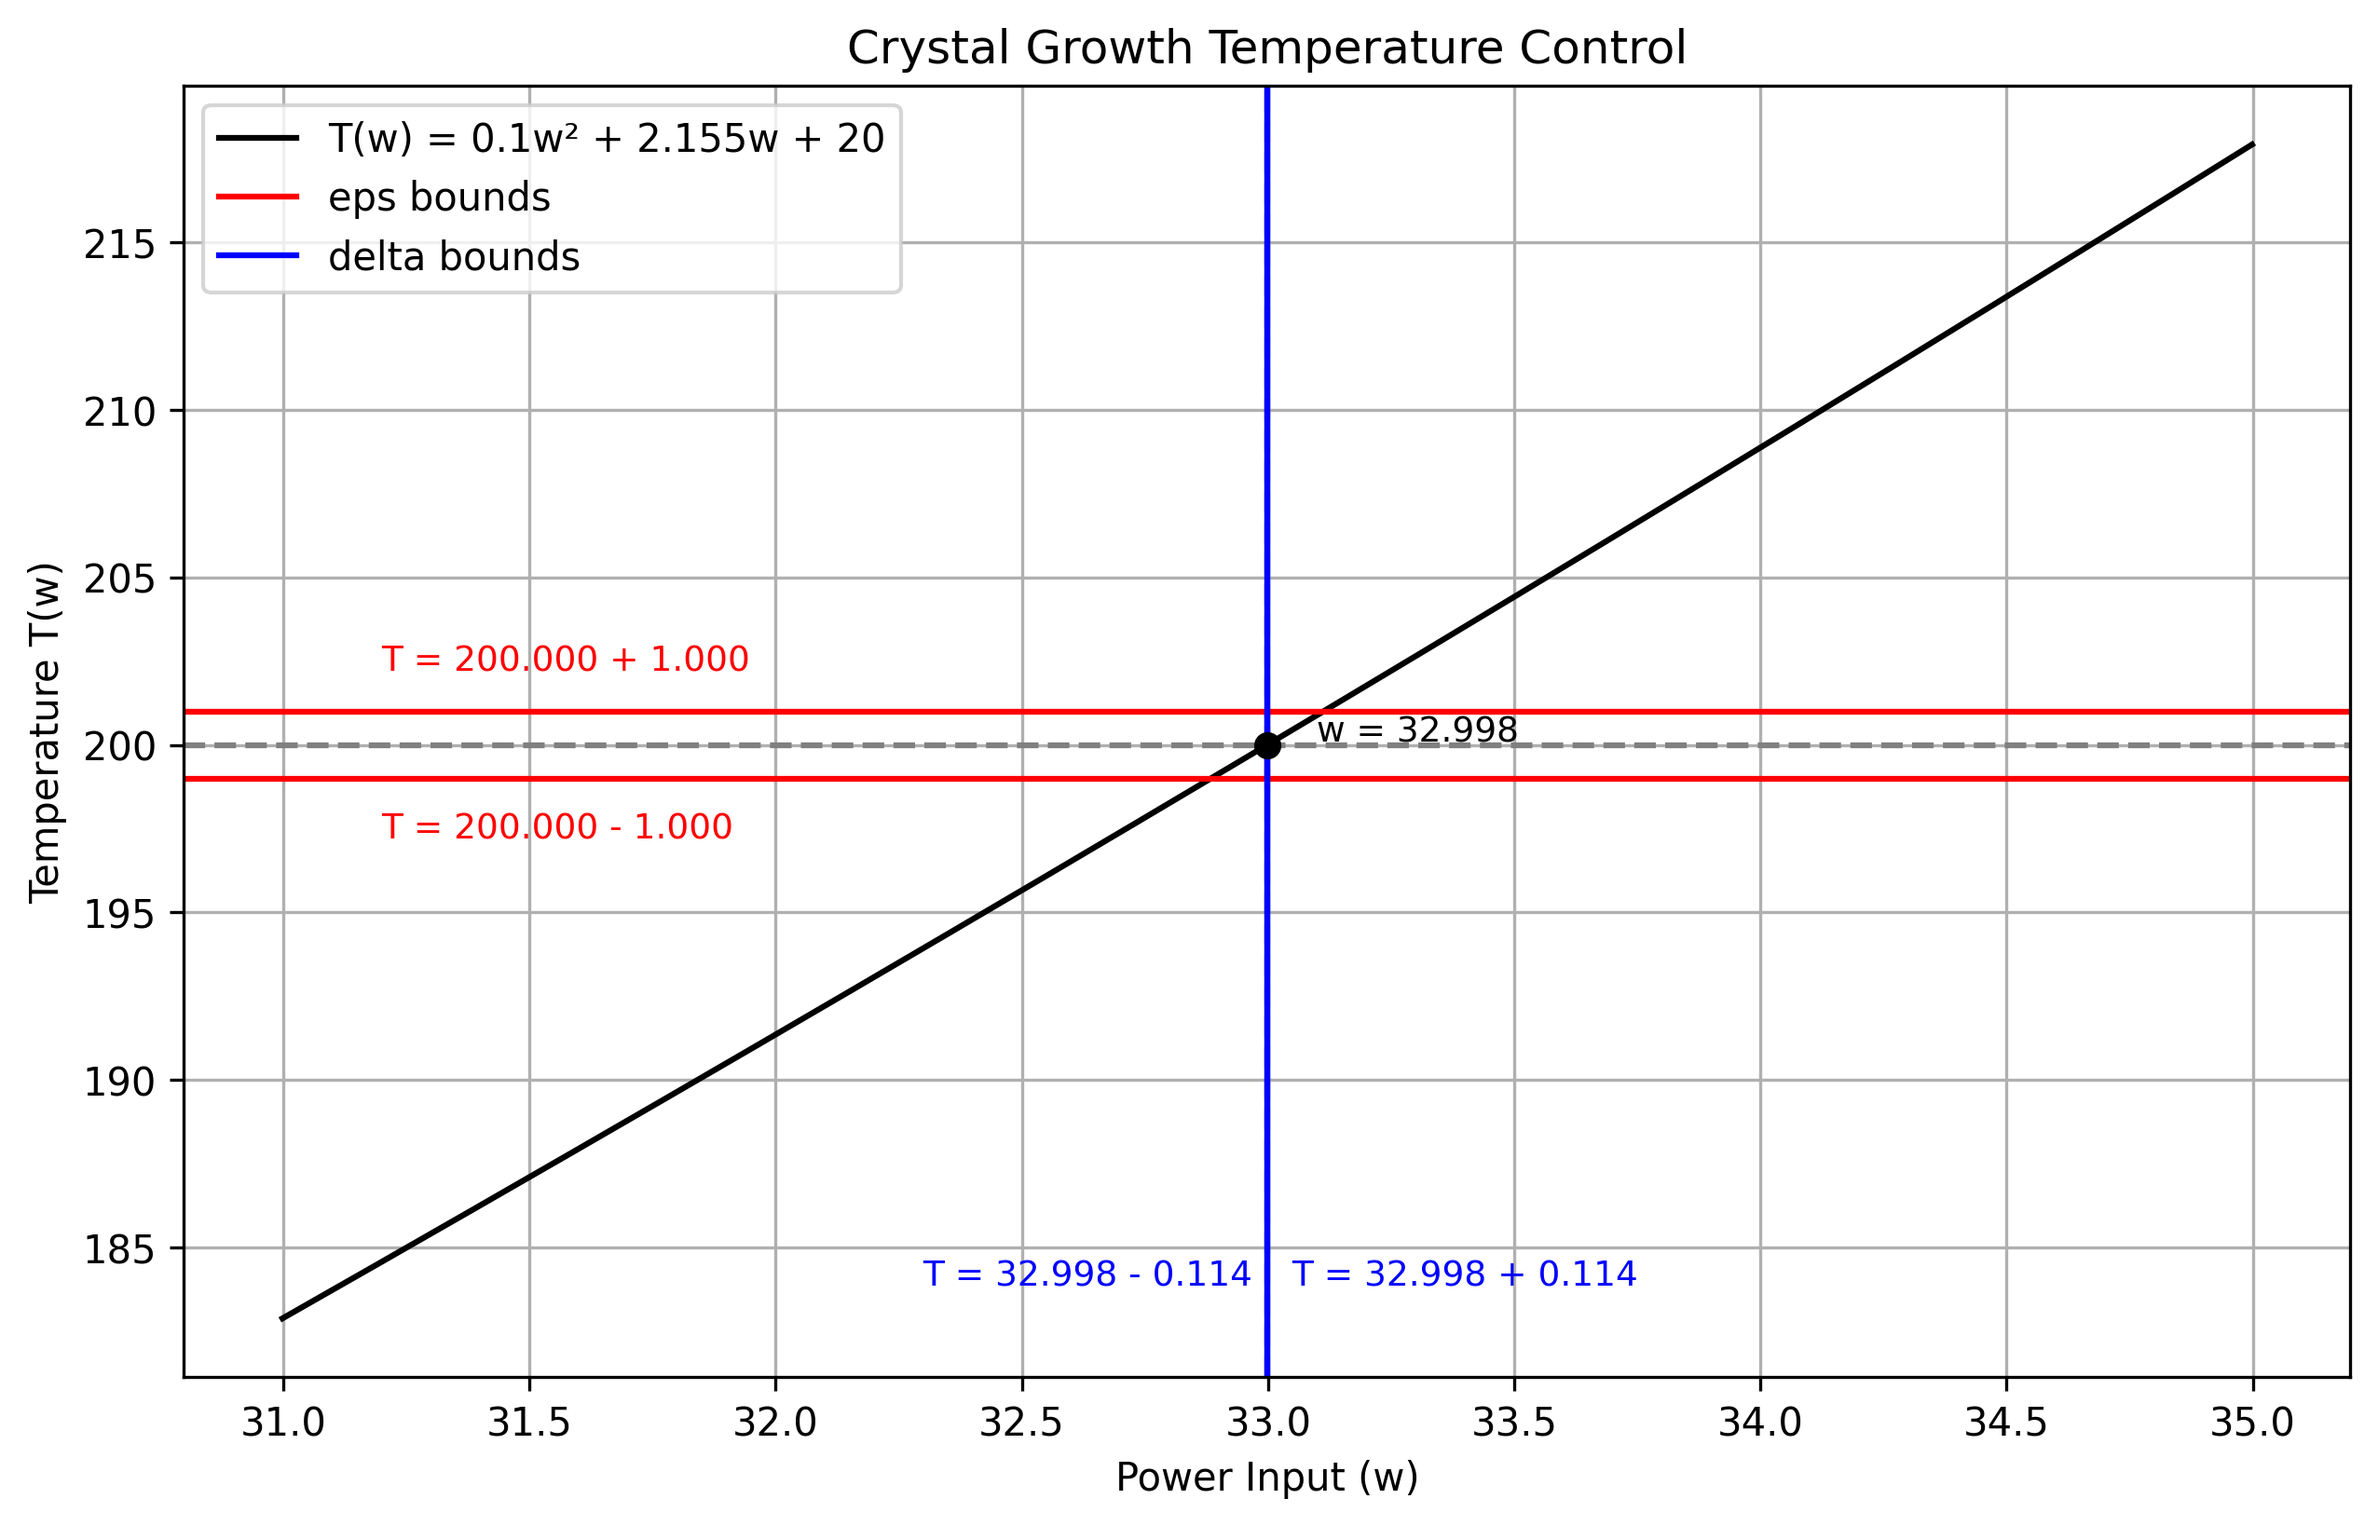
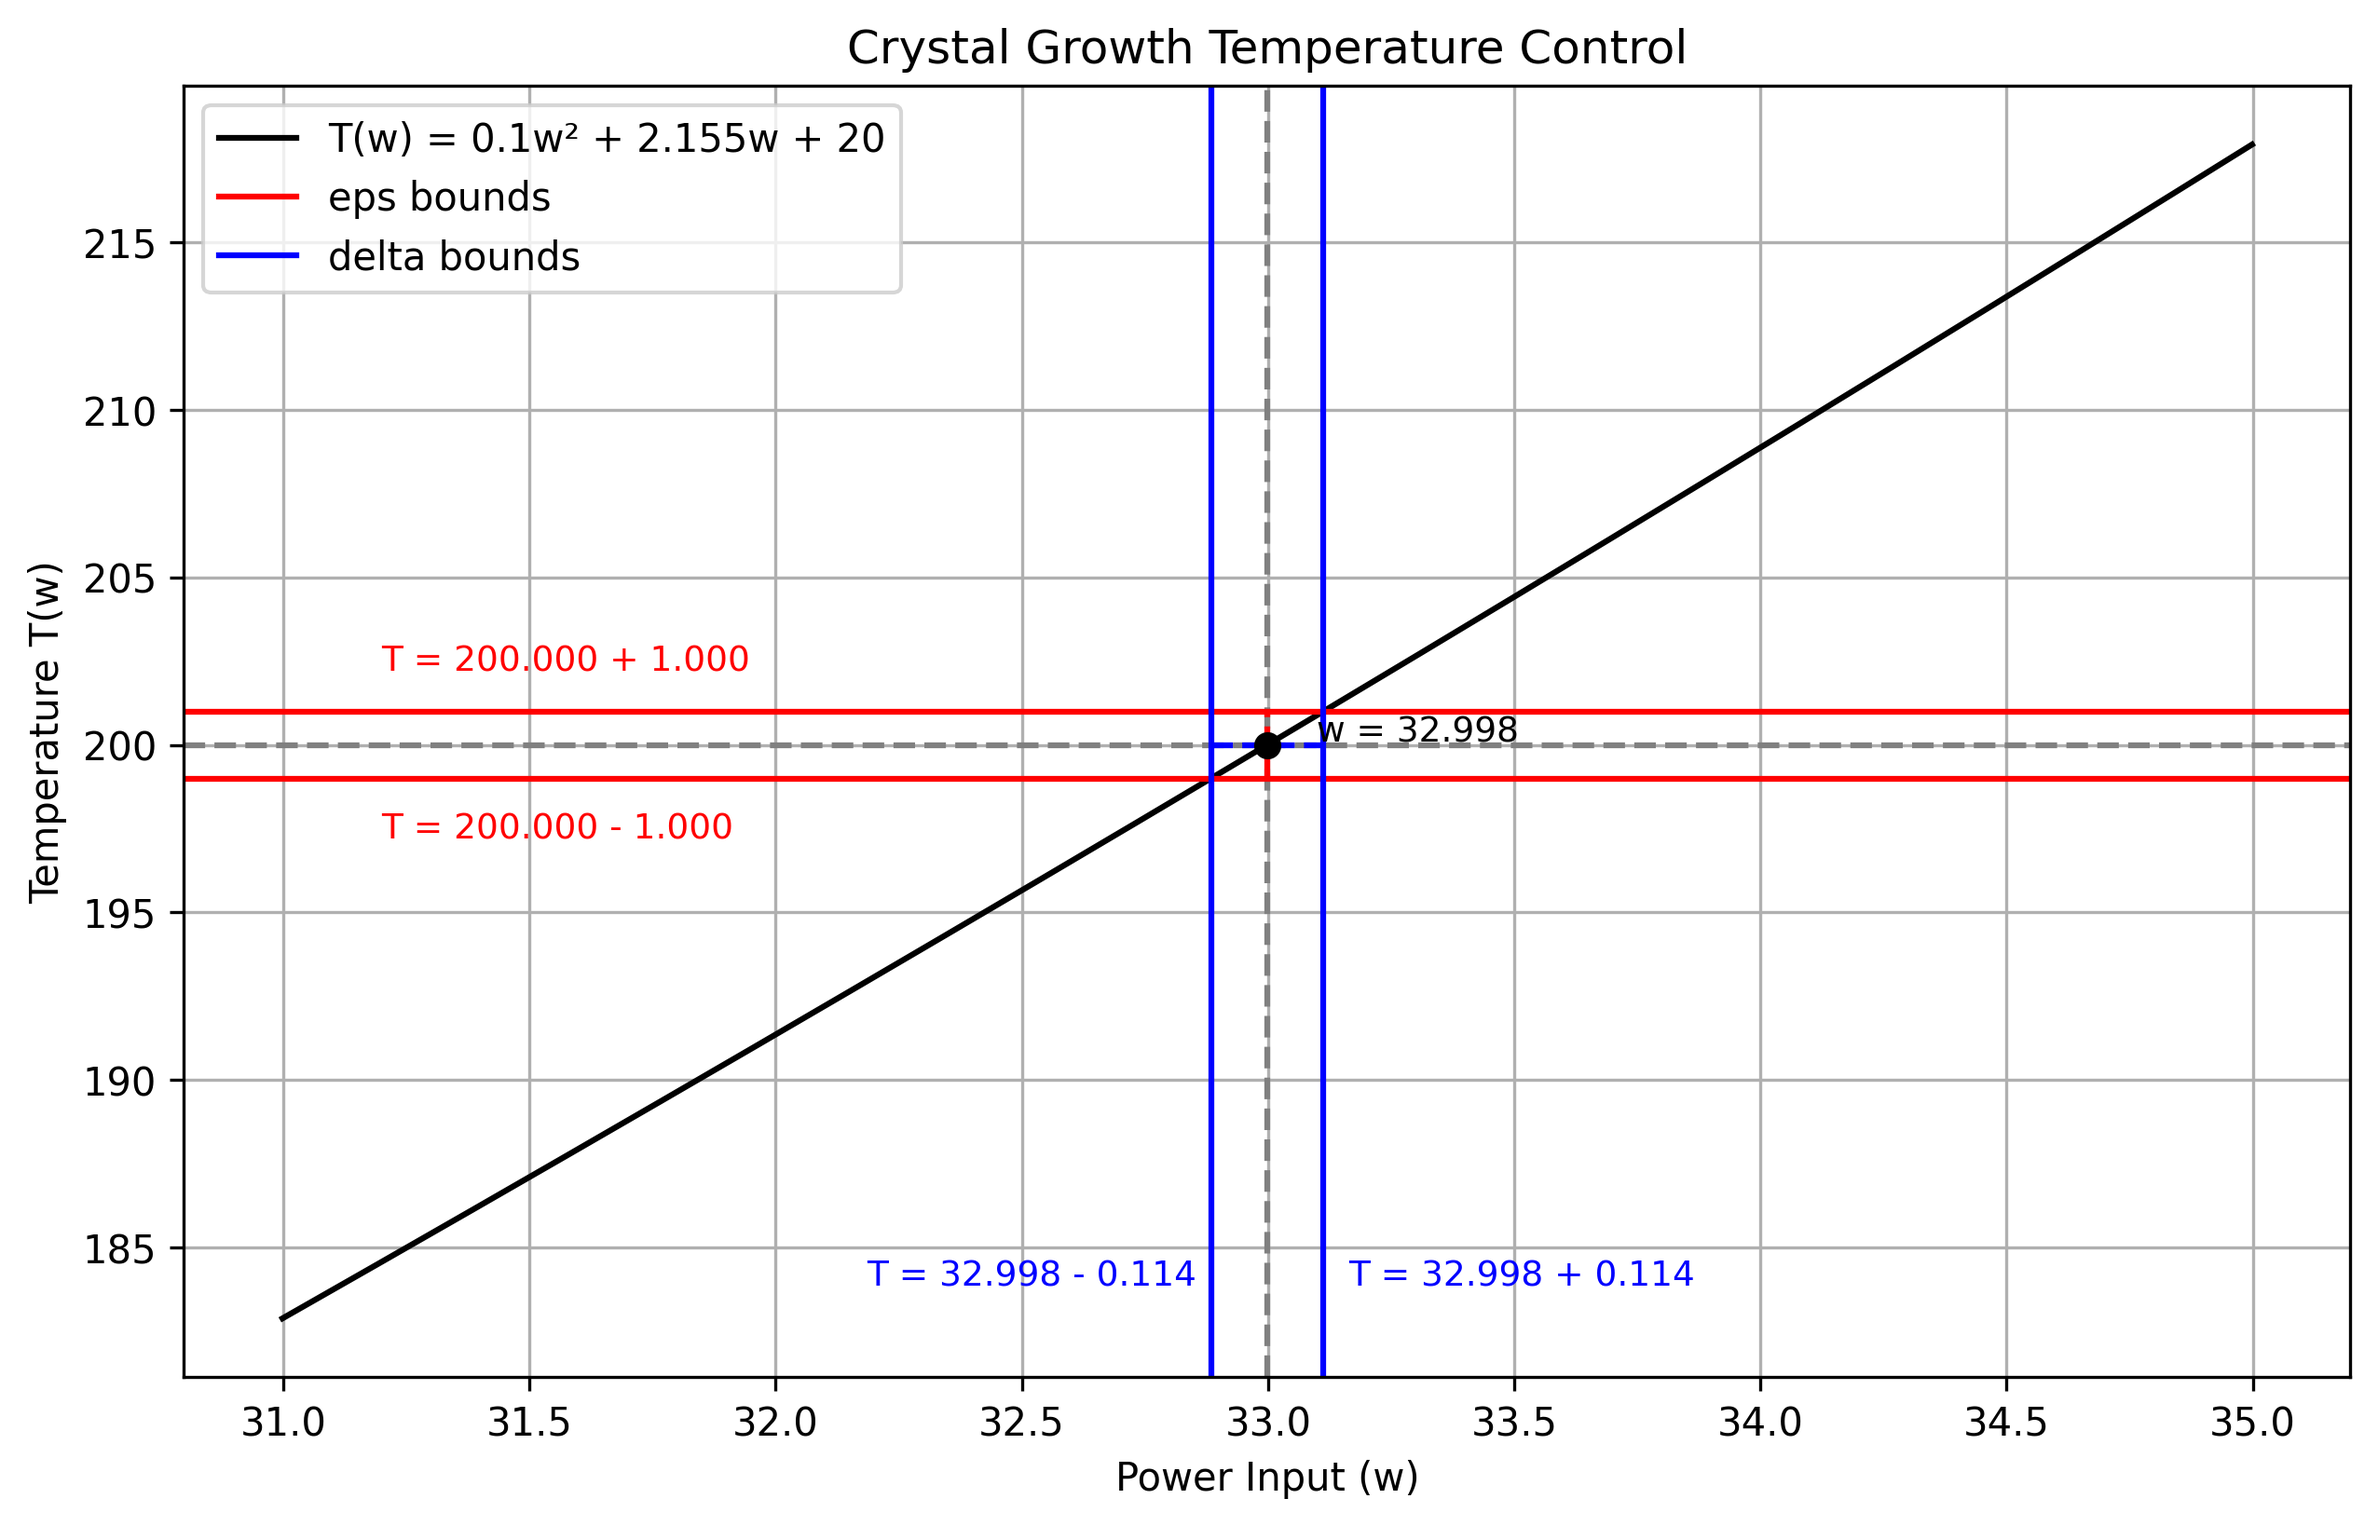
imgay

Changed region(s): [[0.3715, 0.0623, 0.712, 0.9029]]

diff --git a/test_crystal_growth.py b/test_crystal_growth.py
@@ -40,6 +40,8 @@ def viz_limit(target_temperature, eps, target_power, delta, power_range):
     x_left = target_power
     x_right = target_power
     delta = max(abs(target_power - lower_power), abs(higher_power - target_power))
+    x_left = target_power - delta
+    x_right = target_power + delta
     # 計算在溫度誤差範圍 1 內時，功率的最大偏差(delta)
     plt.axvline(x=x_left, color='blue', linestyle='-', label='delta bounds')
     plt.axvline(x=x_right, color='blue', linestyle='-')
